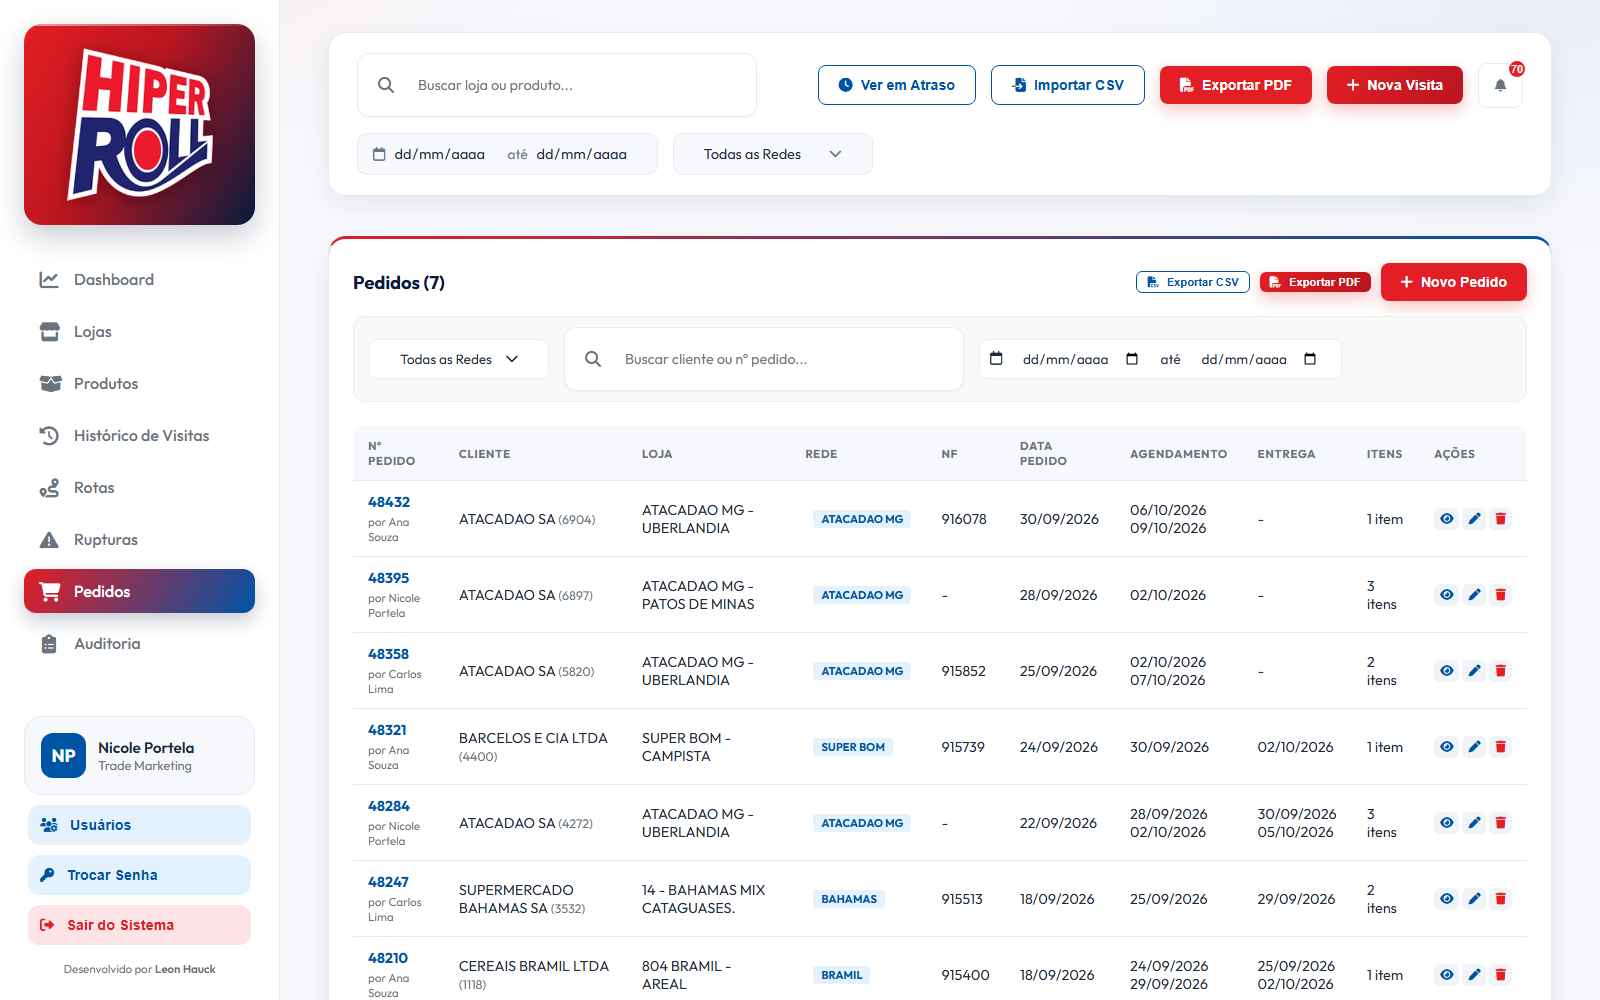
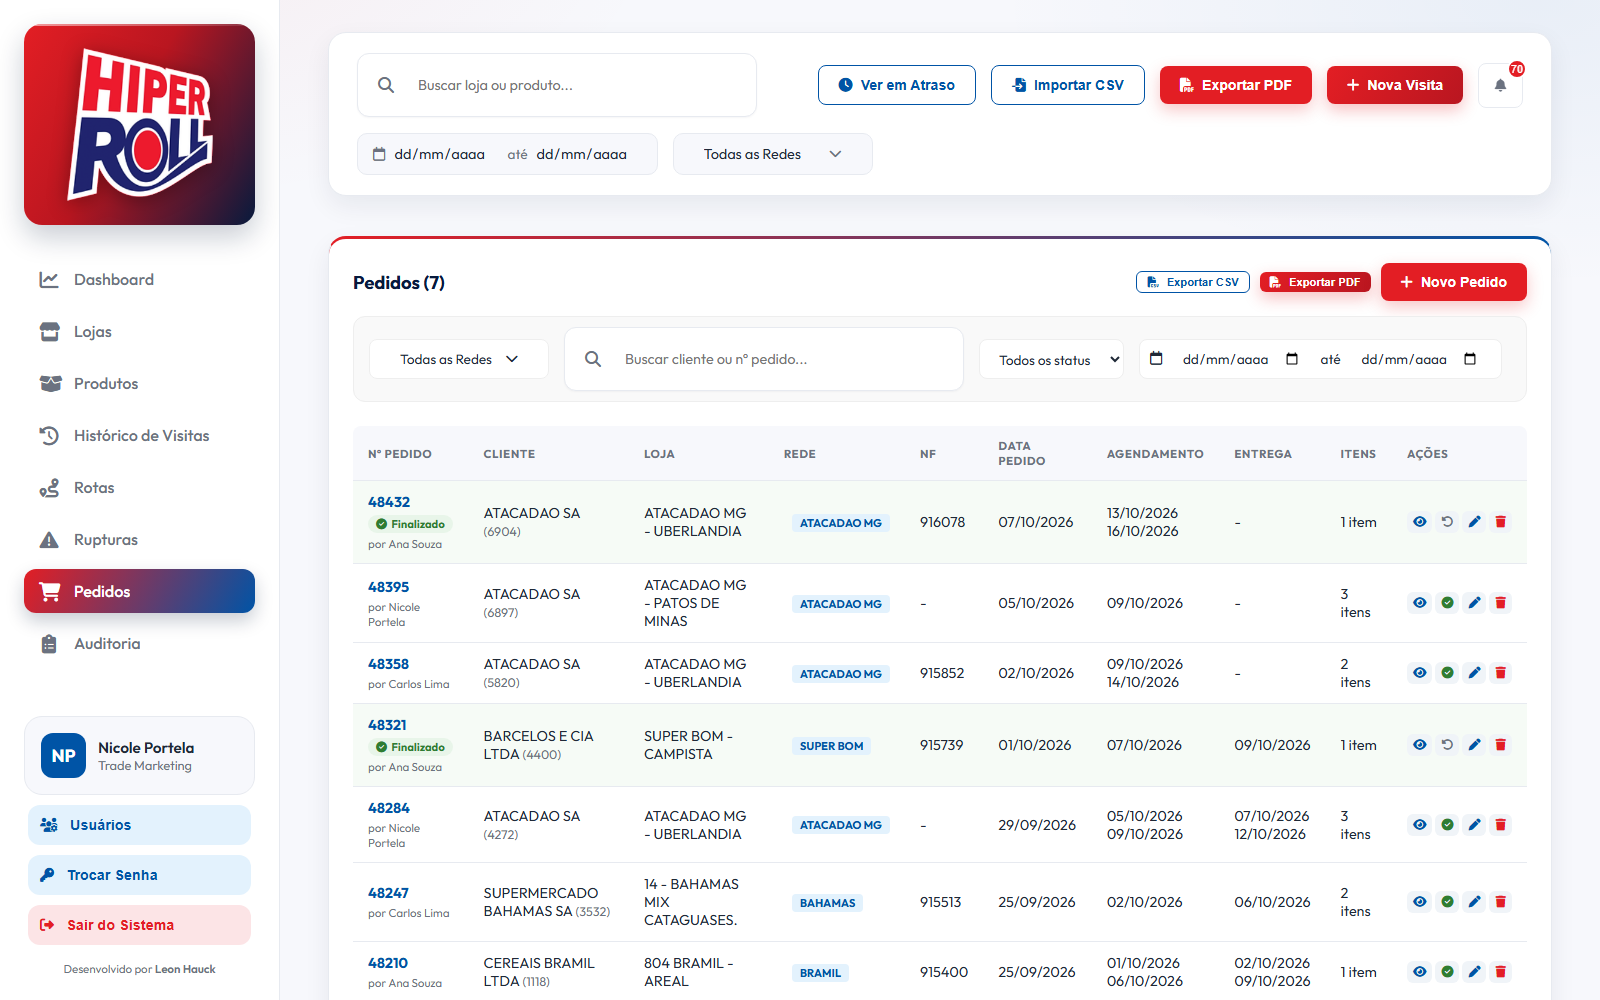
Adição do botão de finalizado

diff --git a/app.js b/app.js
@@ -4411,8 +4411,11 @@ function getFilteredPedidosList() {
     const endVal = document.getElementById('pedidoFilterEndDate')?.value;
     const startDate = startVal ? new Date(startVal + 'T00:00:00') : null;
     const endDate = endVal ? new Date(endVal + 'T23:59:59') : null;
+    const statusFilter = document.getElementById('pedidoStatusFilter')?.value || '';
 
     return pedidos.filter(p => {
+        if (statusFilter === 'finalizado' && !p.finalizado) return false;
+        if (statusFilter === 'andamento' && p.finalizado) return false;
         const store = findPedidoDestination(p.storeId);
         const network = store ? store.network : '';
         if (checkedNets.length > 0 && !checkedNets.includes(network)) return false;
@@ -4475,6 +4478,12 @@ function renderPedidosView() {
                         <i class="fa-solid fa-magnifying-glass"></i>
                         <input type="text" id="pedidoClienteSearch" placeholder="Buscar cliente ou nº pedido..." oninput="renderPedidosTable()">
                     </div>
+
+                    <select id="pedidoStatusFilter" class="filter-select" onchange="renderPedidosTable()" style="height: 40px; width: auto; background: white; border: 1px solid #eee; border-radius: 8px; font-size: 0.85rem;">
+                        <option value="">Todos os status</option>
+                        <option value="andamento">Em andamento</option>
+                        <option value="finalizado">Finalizados</option>
+                    </select>
 
                     <div style="display: flex; align-items: center; gap: 8px; background: white; border: 1px solid #eee; border-radius: 8px; padding: 0 10px; height: 40px;">
                         <i class="fa-regular fa-calendar" style="color: var(--text-light); font-size: 0.85rem;"></i>
@@ -4547,8 +4556,8 @@ function renderPedidosTable() {
         const store = findPedidoDestination(p.storeId);
         const itemCount = (p.itens || []).length;
         return `
-            <tr>
-                <td><strong style="cursor: pointer; color: var(--primary-blue);" onclick="viewPedido('${p.id}')" title="Ver detalhes do pedido">${p.numeroPedido || '-'}</strong>${authorLineHtml(p)}</td>
+            <tr class="${p.finalizado ? 'pedido-finalizado' : ''}">
+                <td><strong style="cursor: pointer; color: var(--primary-blue);" onclick="viewPedido('${p.id}')" title="Ver detalhes do pedido">${p.numeroPedido || '-'}</strong>${pedidoStatusBadgeHtml(p)}${authorLineHtml(p)}</td>
                 <td>${p.clienteNome || '-'}${p.clienteCodigo ? ` <span style="color:var(--text-muted); font-size:0.78rem;">(${p.clienteCodigo})</span>` : ''}</td>
                 <td>${store ? store.name : '<span style="color:var(--text-muted);">loja removida</span>'}</td>
                 <td>${store ? `<span class="network-tag">${store.network}</span>` : '-'}</td>
@@ -4559,6 +4568,9 @@ function renderPedidosTable() {
                 <td>${itemCount} ${itemCount === 1 ? 'item' : 'itens'}</td>
                 <td style="white-space: nowrap;">
                     <button class="btn-edit-small" onclick="viewPedido('${p.id}')" title="Visualizar"><i class="fa-solid fa-eye"></i></button>
+                    ${p.finalizado
+                        ? `<button class="btn-edit-small" onclick="setPedidoFinalizado('${p.id}', false)" title="Reabrir pedido" style="color: var(--text-muted);"><i class="fa-solid fa-rotate-left"></i></button>`
+                        : `<button class="btn-edit-small" onclick="setPedidoFinalizado('${p.id}', true)" title="Finalizar pedido" style="color: #2e7d32;"><i class="fa-solid fa-circle-check"></i></button>`}
                     <button class="btn-edit-small" onclick="openPedidoModal('${p.id}')" title="Editar"><i class="fa-solid fa-pen"></i></button>
                     <button class="btn-edit-small" onclick="deletePedido('${p.id}')" title="Excluir" style="color: var(--primary-red);"><i class="fa-solid fa-trash"></i></button>
                 </td>
@@ -4612,6 +4624,55 @@ window.removePedidoDate = function(kind, index) {
     renderPedidoDateInputs(kind);
 };
 
+// ---------- Finalização do pedido ----------
+// Quando o pedido foi concluído com sucesso, o usuário o marca como finalizado. Fica
+// visível para todos (selo na lista, quadro na visualização). Quem finalizou e quando
+// (finalizedBy) é gravado pelo servidor; reabrir apaga o carimbo.
+function formatFinalizedStamp(p) {
+    if (!p.finalizedBy) return 'Finalizado';
+    const when = new Date(p.finalizedBy.t * 1000);
+    return `Finalizado em ${when.toLocaleDateString('pt-BR')} às ${when.toLocaleTimeString('pt-BR', { hour: '2-digit', minute: '2-digit' })} por ${p.finalizedBy.n || p.finalizedBy.u}`;
+}
+
+function pedidoStatusBadgeHtml(p) {
+    return p.finalizado
+        ? `<div><span class="pedido-status-badge done" title="${escapeHtml(formatFinalizedStamp(p))}"><i class="fa-solid fa-circle-check"></i> Finalizado</span></div>`
+        : '';
+}
+
+window.setPedidoFinalizado = async function(pedidoId, finalizar) {
+    const atual = pedidos.find(x => x.id === pedidoId);
+    if (!atual) return;
+    const pergunta = finalizar
+        ? `Marcar o pedido ${atual.numeroPedido || ''} como finalizado?\nTodos os usuários verão que ele foi concluído.`
+        : `Reabrir o pedido ${atual.numeroPedido || ''}?\nEle volta a aparecer como em andamento.`;
+    if (!confirm(pergunta)) return;
+
+    await syncWithServer(); // parte dos dados mais recentes do servidor
+    const p = pedidos.find(x => x.id === pedidoId);
+    if (!p) { alert('Este pedido não existe mais (pode ter sido excluído por outro usuário).'); return; }
+    if (finalizar) {
+        p.finalizado = true;
+        // Carimbo provisório (aparece na hora e no modo local, sem servidor); com o servidor,
+        // ele é substituído pelo oficial na sincronização
+        p.finalizedBy = {
+            t: Math.floor(Date.now() / 1000),
+            u: currentUser ? currentUser.username : '',
+            n: currentUser ? currentUser.name : 'Usuário'
+        };
+    } else {
+        delete p.finalizado;
+        delete p.finalizedBy;
+    }
+    await persistPedidos(); // a sincronização devolve o carimbo de quem finalizou
+    renderPedidosTable();
+    const modal = document.getElementById('pedidoModal');
+    if (modal && modal.style.display === 'flex' && document.getElementById('pedidoModalBody').dataset.viewing === pedidoId) {
+        viewPedido(pedidoId);
+    }
+    showToast(finalizar ? `Pedido ${p.numeroPedido || ''} finalizado.` : `Pedido ${p.numeroPedido || ''} reaberto.`, 'success');
+};
+
 // ---------- Modal: visualizar pedido (somente leitura) ----------
 // Usa a mesma janela do cadastro, mas sem campos editáveis: serve para consultar o
 // pedido sem risco de alterar algo por engano.
@@ -4631,7 +4692,9 @@ window.viewPedido = function(pedidoId) {
     const itens = p.itens || [];
 
     document.getElementById('pedidoModalTitle').textContent = `Pedido ${p.numeroPedido || ''}`.trim();
+    body.dataset.viewing = p.id;
     body.innerHTML = `
+        ${p.finalizado ? `<div class="pedido-finalizado-banner"><i class="fa-solid fa-circle-check"></i> ${escapeHtml(formatFinalizedStamp(p))}</div>` : ''}
         ${authorshipHtml(p)}
         <div class="pedido-view-grid">
             ${field('Número do Pedido', escapeHtml(p.numeroPedido))}
@@ -4671,6 +4734,9 @@ window.viewPedido = function(pedidoId) {
 
         <div class="form-actions" style="display: flex; gap: 10px;">
             <button type="button" class="btn btn-secondary" style="flex: 1; justify-content: center;" onclick="document.getElementById('pedidoModal').style.display='none'">Fechar</button>
+            ${p.finalizado
+                ? `<button type="button" class="btn btn-secondary" style="flex: 1; justify-content: center;" onclick="setPedidoFinalizado('${p.id}', false)"><i class="fa-solid fa-rotate-left"></i> Reabrir pedido</button>`
+                : `<button type="button" class="btn btn-success" style="flex: 1; justify-content: center; width: auto;" onclick="setPedidoFinalizado('${p.id}', true)"><i class="fa-solid fa-circle-check"></i> Finalizar pedido</button>`}
             <button type="button" class="btn btn-primary" style="flex: 1; justify-content: center;" onclick="openPedidoModal('${p.id}')"><i class="fa-solid fa-pen"></i> Editar</button>
         </div>
     `;
@@ -5029,7 +5095,7 @@ window.exportPedidosCSV = function() {
     const filtered = getFilteredPedidosList();
     if (filtered.length === 0) { alert('Não há pedidos para exportar com os filtros atuais.'); return; }
 
-    let csvContent = 'data:text/csv;charset=utf-8,Nº Pedido;Código Cliente;Nome Cliente;Loja;Rede;Nº NF;Data Pedido;Datas Agendamento;Datas Entrega;Unidade(s);Itens;Observações\n';
+    let csvContent = 'data:text/csv;charset=utf-8,Nº Pedido;Código Cliente;Nome Cliente;Loja;Rede;Nº NF;Data Pedido;Datas Agendamento;Datas Entrega;Unidade(s);Itens;Observações;Status\n';
     filtered.forEach(p => {
         const store = findPedidoDestination(p.storeId);
         const itensStr = (p.itens || []).map(it => `${it.descricao} (${it.quantidade}x)`).join(' | ');
@@ -5046,7 +5112,8 @@ window.exportPedidosCSV = function() {
             formatPedidoDates(p, 'Entrega', ' | '),
             unidadesStr,
             `"${itensStr.replace(/"/g, '""')}"`,
-            `"${(p.observacoes || '').replace(/"/g, '""')}"`
+            `"${(p.observacoes || '').replace(/"/g, '""')}"`,
+            p.finalizado ? formatFinalizedStamp(p) : 'Em andamento'
         ].join(';') + '\n';
     });
 
@@ -6633,6 +6700,8 @@ const AUDIT_ACTIONS = {
     update: { label: 'Editou', tone: 'update' },
     delete: { label: 'Excluiu', tone: 'delete' },
     resolve: { label: 'Resolveu', tone: 'create' },
+    finalize: { label: 'Finalizou', tone: 'create' },
+    reopen: { label: 'Reabriu', tone: 'update' },
     clear: { label: 'Limpou', tone: 'update' },
     csv: { label: 'Importou', tone: 'update' },
     password: { label: 'Trocou a senha', tone: 'update' },
@@ -6673,6 +6742,7 @@ const AUDIT_FIELDS = {
     datasEntrega: ['Datas de entrega', value => (value || []).map(formatDate).join(', ') || '—'],
     observacoes: ['Observações', auditText],
     itens: ['Itens', value => (value || []).map(item => `${item.descricao} (${item.quantidade}x)`).join('; ') || '—'],
+    finalizado: ['Status', value => value ? 'Finalizado' : 'Em andamento'],
     name: ['Nome', auditText],
     role: ['Cargo', auditText],
     admin: ['Administrador', auditYesNo]
@@ -6710,7 +6780,9 @@ function describeAuditEntry(entry) {
     if (entry.e === 'pedido') {
         return {
             subject: `Pedido ${auditText(d.numeroPedido)}${d.clienteNome ? ' — ' + d.clienteNome : ''} — ${auditStoreName(d.storeId)}`,
-            lines: isUpdate
+            lines: entry.a === 'finalize' ? ['Pedido marcado como finalizado']
+                : entry.a === 'reopen' ? ['Pedido reaberto (voltou para em andamento)']
+                : isUpdate
                 ? auditChangeLines(d.changes)
                 : auditSnapshotLines(d, ['numeroNF', 'dataPedido', 'datasAgendamento', 'datasEntrega', 'itens', 'observacoes'])
         };

diff --git a/index.html b/index.html
@@ -6,7 +6,7 @@
     <meta name="viewport" content="width=device-width, initial-scale=1.0">
     <title>Trade Marketing - Hiperroll Dashboard</title>
     <link rel="icon" href="logo-hiperroll.png">
-    <link rel="stylesheet" href="style.css?v=20261020">
+    <link rel="stylesheet" href="style.css?v=20261015">
     <link rel="preconnect" href="https://fonts.googleapis.com">
     <link rel="preconnect" href="https://fonts.gstatic.com" crossorigin>
     <link href="https://fonts.googleapis.com/css2?family=Outfit:wght@300;400;500;600;700&display=swap" rel="stylesheet">
@@ -479,7 +479,7 @@
     <script defer src="cd-clientes.js?v=20261010"></script>
     <script defer src="storage.js?v=20261012"></script>
     <script defer src="db.js?v=20260713"></script>
-    <script defer src="app.js?v=20261021"></script>
+    <script defer src="app.js?v=20261015b"></script>
 </body>
 
 </html>

diff --git a/style.css b/style.css
@@ -1554,6 +1554,39 @@ select:focus, textarea:focus, input:focus {
     color: var(--text-muted);
 }
 
+/* Pedido finalizado */
+.pedido-status-badge {
+    display: inline-flex;
+    align-items: center;
+    gap: 4px;
+    margin-top: 4px;
+    padding: 2px 8px;
+    border-radius: 999px;
+    font-size: 0.7rem;
+    font-weight: 700;
+    white-space: nowrap;
+}
+
+.pedido-status-badge.done {
+    background: #e8f5e9;
+    color: #2e7d32;
+}
+
+.reports-table tr.pedido-finalizado td {
+    background: #f6fbf6;
+}
+
+.pedido-finalizado-banner {
+    margin-bottom: 14px;
+    padding: 10px 12px;
+    border-radius: 10px;
+    background: #e8f5e9;
+    border: 1px solid #c8e6c9;
+    color: #2e7d32;
+    font-weight: 600;
+    font-size: 0.9rem;
+}
+
 /* Visualização de pedido (somente leitura) */
 .pedido-view-grid {
     display: grid;

diff --git a/backend/api.php b/backend/api.php
@@ -277,7 +277,7 @@ function auditLog(string $entity, string $action, $id, array $details = []): voi
 const AUDIT_FIELDS = [
     'visits'  => ['storeId', 'date', 'ruptures', 'extraPoints', 'isExtra', 'notes'],
     'pedidos' => ['numeroPedido', 'clienteCodigo', 'clienteNome', 'storeId', 'numeroNF', 'dataPedido',
-                  'datasAgendamento', 'datasEntrega', 'observacoes', 'itens'],
+                  'datasAgendamento', 'datasEntrega', 'observacoes', 'itens', 'finalizado'],
 ];
 
 function auditSnapshot(string $collection, array $item): array {
@@ -311,15 +311,24 @@ function withAuthorship(string $collection, ?array $old, array $new): array {
         }
         return $new;
     }
-    unset($new['createdBy'], $new['lastChange']);
+    unset($new['createdBy'], $new['lastChange'], $new['finalizedBy']);
     $stamp = ['t' => time(), 'u' => $me, 'n' => $users[$me]['name'] ?? $me];
+
+    // Pedido finalizado: guarda quem finalizou e quando (mantém o carimbo enquanto
+    // continuar finalizado; ao reabrir, o carimbo some)
+    if ($collection === 'pedidos' && !empty($new['finalizado'])) {
+        $new['finalizedBy'] = ($old !== null && !empty($old['finalizado']) && isset($old['finalizedBy'])) ? $old['finalizedBy'] : $stamp;
+    }
+
     if ($old === null) {
         $new['createdBy']  = $stamp;
         $new['lastChange'] = $stamp + ['a' => 'create'];
         return $new;
     }
     if (isset($old['createdBy'])) $new['createdBy'] = $old['createdBy'];
-    $changed = json_encode(auditSnapshot($collection, $old)) !== json_encode(auditSnapshot($collection, $new));
+    // Finalizar ou reabrir não conta como "editou" (tem carimbo e registro próprios)
+    $withoutStatus = function ($item) use ($collection) { $snap = auditSnapshot($collection, $item); unset($snap['finalizado']); return json_encode($snap); };
+    $changed = $withoutStatus($old) !== $withoutStatus($new);
     if ($changed) $new['lastChange'] = $stamp + ['a' => 'update'];
     elseif (isset($old['lastChange'])) $new['lastChange'] = $old['lastChange'];
     return $new;
@@ -341,6 +350,13 @@ function auditListEvents(string $collection, array $events): void {
             }
             if (count($changes) === 0) continue;
             $identity = array_intersect_key($after, array_flip(['storeId', 'date', 'numeroPedido', 'clienteNome']));
+            // Pedido finalizado ou reaberto vira um registro próprio; se houve outras alterações
+            // junto, elas seguem num registro de edição separado
+            if (isset($changes['finalizado'])) {
+                auditLog($entities[$collection], $after['finalizado'] ? 'finalize' : 'reopen', $key, $identity);
+                unset($changes['finalizado']);
+                if (count($changes) === 0) continue;
+            }
             auditLog($entities[$collection], 'update', $key, $identity + ['changes' => $changes]);
         } elseif ($collection === 'resolved_history' && $type === 'create' && !empty($new['resolvedManually'])) {
             // Só a baixa feita à mão no painel; a resolução automática já aparece na visita que a causou

diff --git a/README.md b/README.md
@@ -211,6 +211,7 @@ Registro de quem adicionou, editou ou excluiu cada coisa, com data e hora e o an
 
 - Cadastro com número do pedido, cliente, loja, nota fiscal, data do pedido e observações.
 - Visualização do pedido em modo somente leitura, pelo ícone de olho ou clicando no número do pedido, sem risco de alterar algo por engano.
+- Finalização do pedido: quando ele foi concluído com sucesso, o usuário o marca como finalizado. A lista mostra o selo "Finalizado" para todos, com data e autor, e há filtro por status (em andamento ou finalizados). O pedido pode ser reaberto; as duas ações ficam na auditoria.
 - Centros de distribuição podem ser o destino de um pedido sem contar como loja: aparecem só no campo "Loja" do pedido, fora de visitas, rotas e indicadores.
 - Até três datas de agendamento e três de entrega por pedido, para pedidos entregues em partes. Todas aparecem na lista, no CSV e no PDF.
 - Busca de cliente por código (`cd-clientes.js`), que preenche o nome e restringe a escolha de loja às redes daquele cliente.
